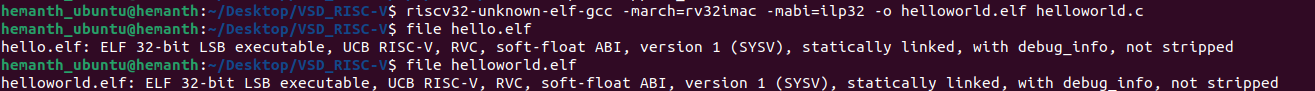
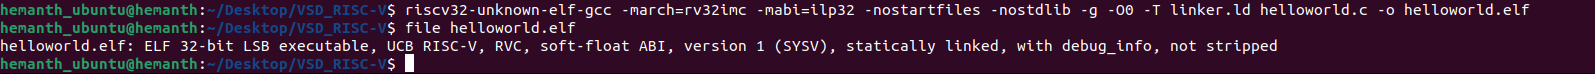
Updated Hello.c task

diff --git a/Week 1/Compile Helloworld in RISC-V.md b/Week 1/Compile Helloworld in RISC-V.md
@@ -9,33 +9,130 @@ Compile a simple "Hello, RISC-V" program using the cross-compiler.
 gedit helloworld.c
 ```
 ```c
-#include <stdio.h>
+volatile int *UART0 = (int *)0x10000000;
 
-int main() {
-    printf("Hello World");
-    return 0;
+void _start() {
+
+    const char *msg = "Hello World";
+
+    while (*msg) {
+
+        *UART0 = *msg++;
+
+    }
+
+    while (1); // Halt
+
 }
+
 ```
-- Save and close the .c file.
+Save and close the .c file.
+### Why this .c file and not a general .c file with printf() statements?
+- This is a bare metal code that directly writes characters to the memory-mapped UART (at address 0x10000000)
+- Uses _start() as the entry point, not main()
+- Does not use any standard C libraries
+- Runs on hardware (or emulated hardware like QEMU) without an operating system
+- However printf version: Needs a richer runtime, not suitable for truly bare-metal
+
 
 
 ![Create](<./Output Screenshots/Creating Helloworld.c.png>)
 
+### Creating a linker script with .ld file type
+
+```bash
+ENTRY(_start)
+
+MEMORY
+
+{
+  // This separates ROM (code/rodata) from RAM (data/bss), and avoids placing them all in one RWX segment.
+  ROM (rx)  : ORIGIN = 0x80000000, LENGTH = 512K
+
+  RAM (rwx) : ORIGIN = 0x80080000, LENGTH = 512K
+
+} 
+SECTIONS
+
+{
+
+  .text : {
+
+    *(.text)
+
+    *(.text*)
+
+  } > ROM
+
+  .rodata : {
+
+    *(.rodata)
+
+    *(.rodata*)
+
+  } > ROM
+
+  .data : {
+
+    *(.data)
+
+    *(.data*)
+
+  } > RAM AT > ROM
+
+  .bss : {
+
+    *(.bss)
+
+    *(.bss*)
+
+    *(COMMON)
+
+  } > RAM
+
+  /DISCARD/ : {
+
+    *(.comment)
+
+    *(.note*)
+
+  }
+
+}
+```
+A linker script (.ld file) is a plain-text configuration file used by the linker (ld) to control how your program's code and data are laid out in memory.
+
+Why Do We Need It?
+In embedded systems (like RISC-V development), we don't have an operating system to manage memory. So we must tell the linker:
+- Where the code (like _start, main) should go
+- Where to place data, bss, and stack
+- How to organize segments in Flash (ROM) and RAM
+Without this, the program won't know where to load and run from.
+
+
+
 ## Compilation Command
 ```bash
-riscv32-unknown-elf-gcc -march=rv32imac -mabi=ilp32 -o helloworld.elf helloworld.c
+riscv32-unknown-elf-gcc -march=rv32imc -mabi=ilp32 -nostartfiles -nostdlib -g -O0 -T linker.ld helloworld.c -o helloworld.elf
 ```
 
 ### Explanation of Flags
-- `riscv32-unknown-elf-gcc`: The RISC-V cross-compiler.
-- `-march=rv32imac`: Specifies the target microarchitecture.
-- `-mabi=ilp32`: Specifies the Application Binary Interface.
-- `-o hello.elf`: Output ELF file.
-- `helloworld.c`: Source file.
+| Flag                      | Meaning                                                       |
+| ------------------------- | ------------------------------------------------------------- |
+| `riscv32-unknown-elf-gcc` | RISC-V GCC compiler for 32-bit bare-metal targets (no OS)     |
+| `-march=rv32imc`          | Target **RISC-V 32-bit** architecture with **IMC extensions** |
+| `-mabi=ilp32`             | Use **ILP32** ABI (int, long, pointer = 32 bits)              |
+| `-nostartfiles`           | Do **not link** standard startup files (like `crt0.o`)        |
+| `-nostdlib`               | Do **not link** standard libraries (`libc`, `libm`, etc.)     |
+| `-g`                      | Include **debug symbols** for GDB debugging                   |
+| `-O0`                     | Disable optimizations (**easier debugging**)                  |
+| `-T linker.ld`            | Use custom **linker script** for memory layout                |
+| `helloworld.c`            | Your **C source file**                                        |
+| `-o helloworld.elf`       | Name of the output **ELF executable**                         |
 
 ## ELF Verification
 ```bash
-file hello.elf
+file helloworld.elf
 ```
 The output confirms:
 
